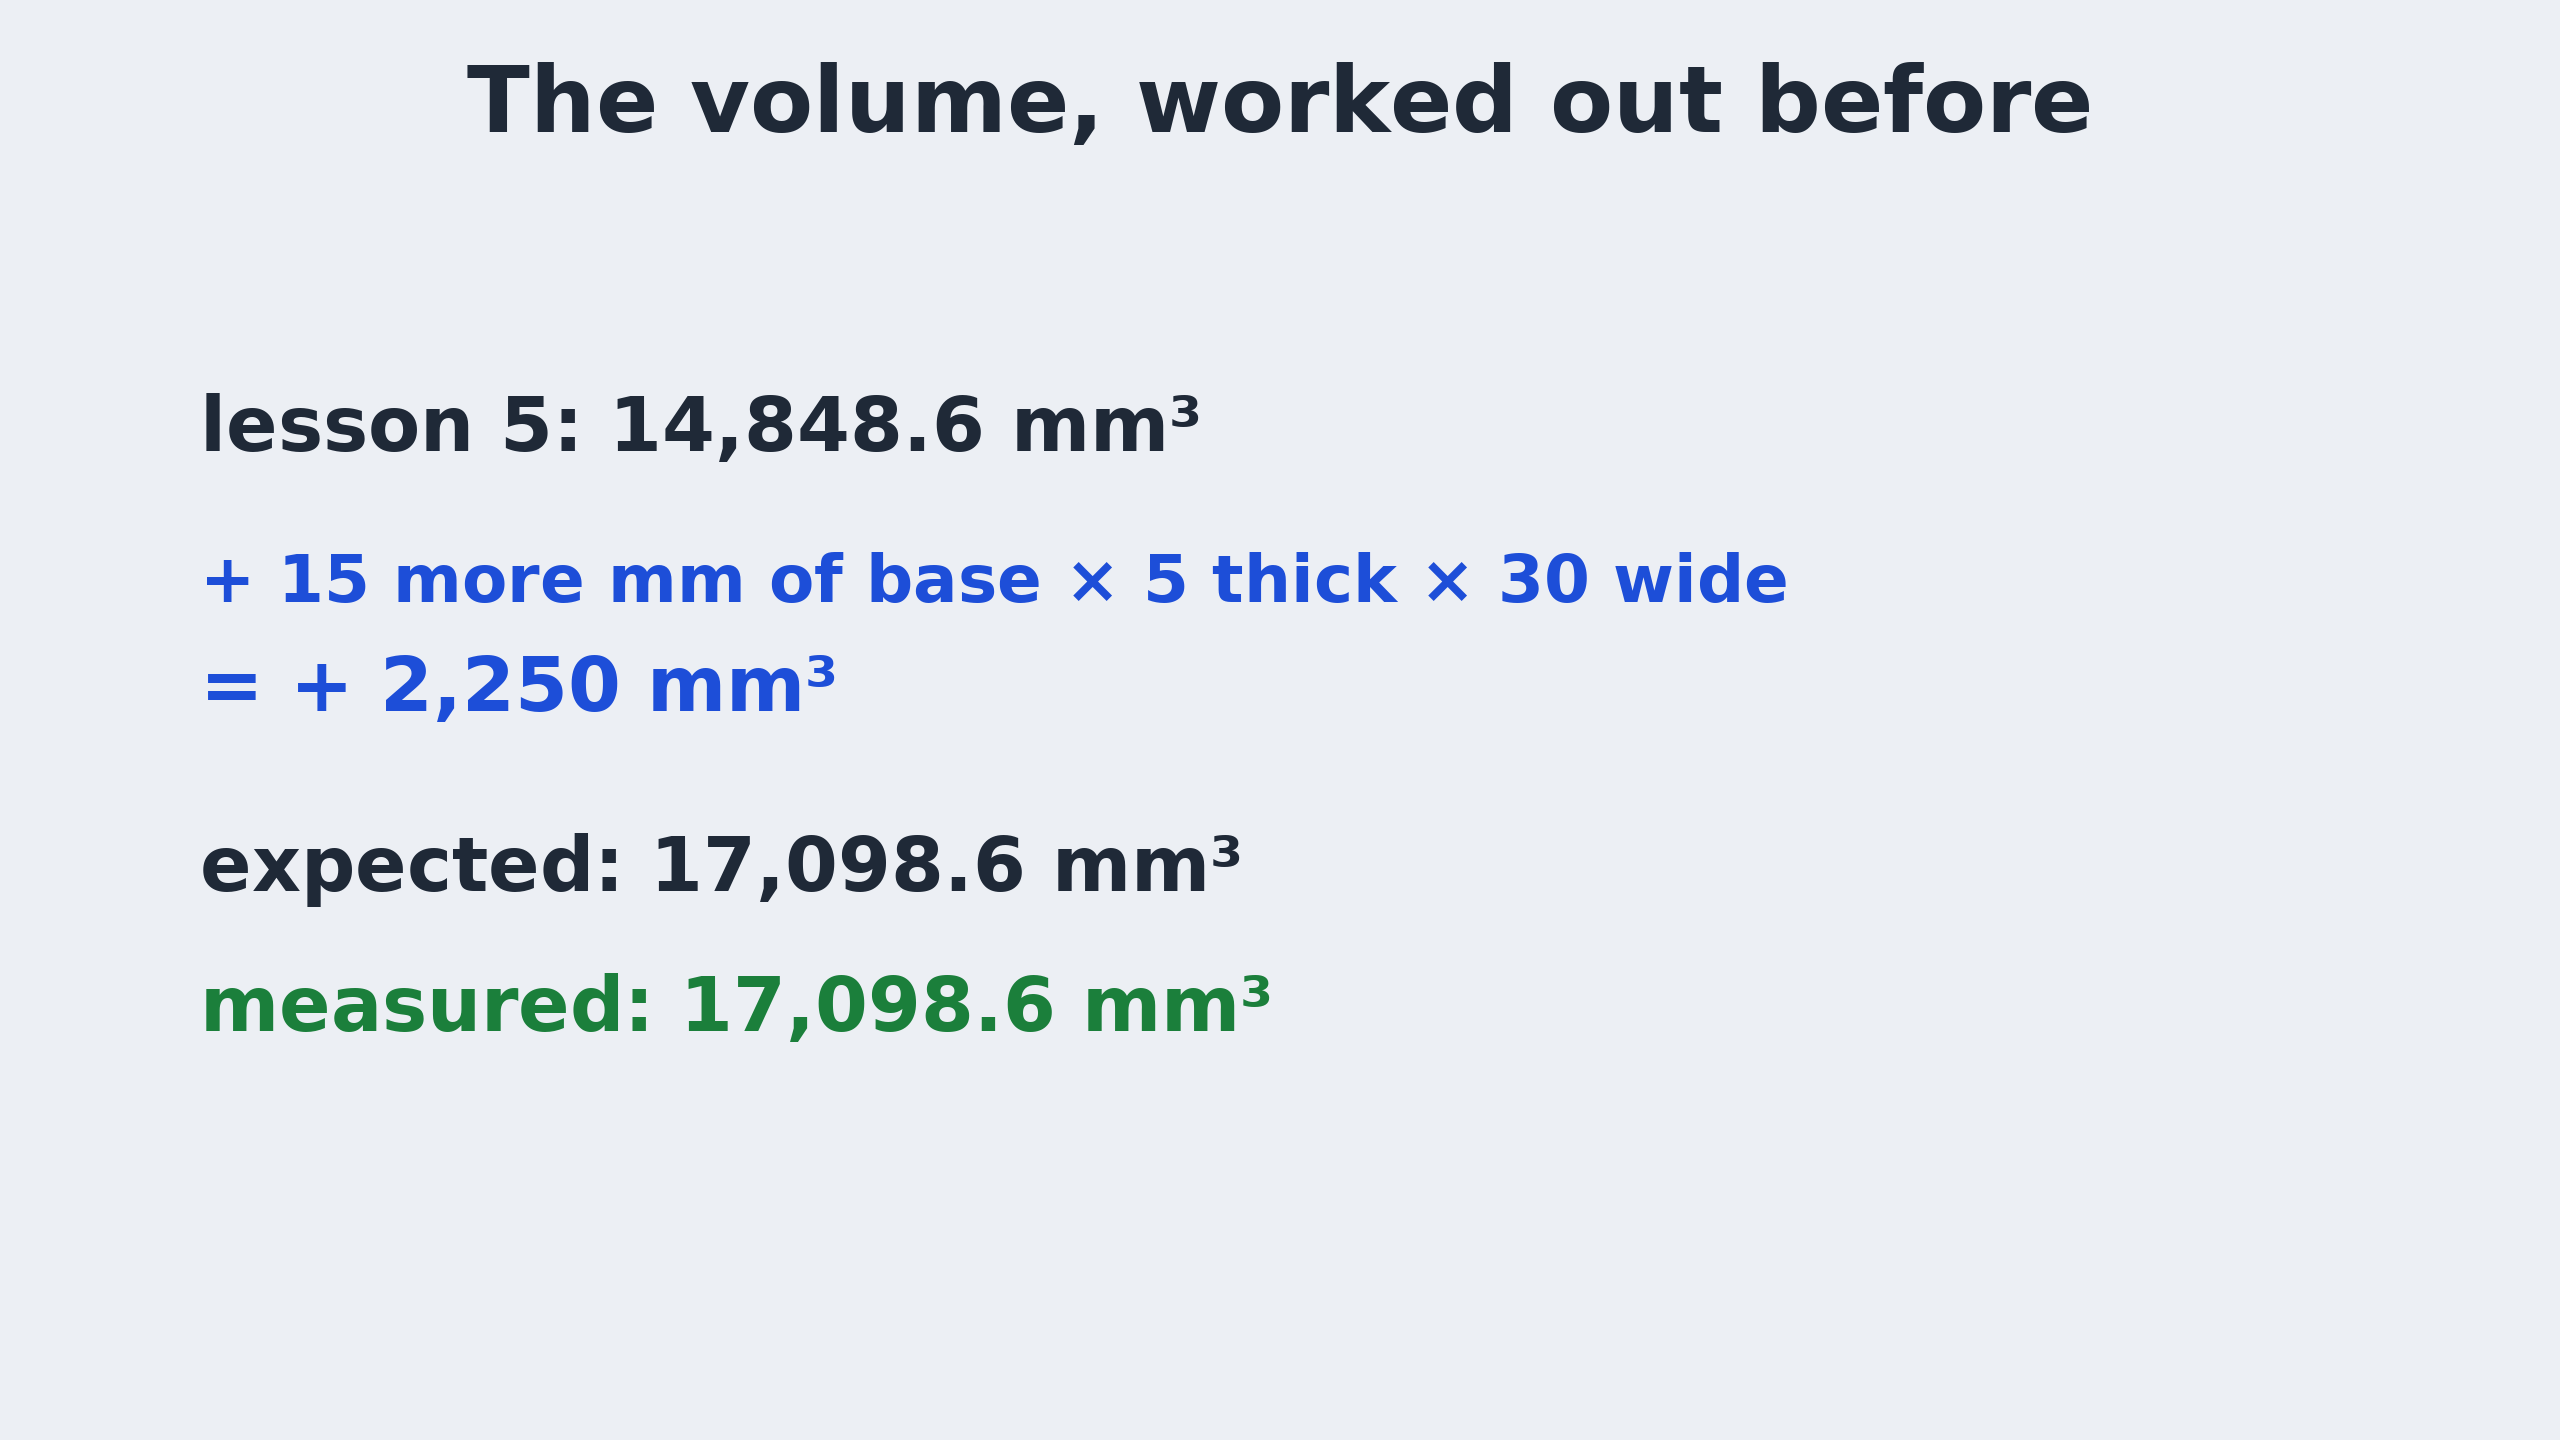
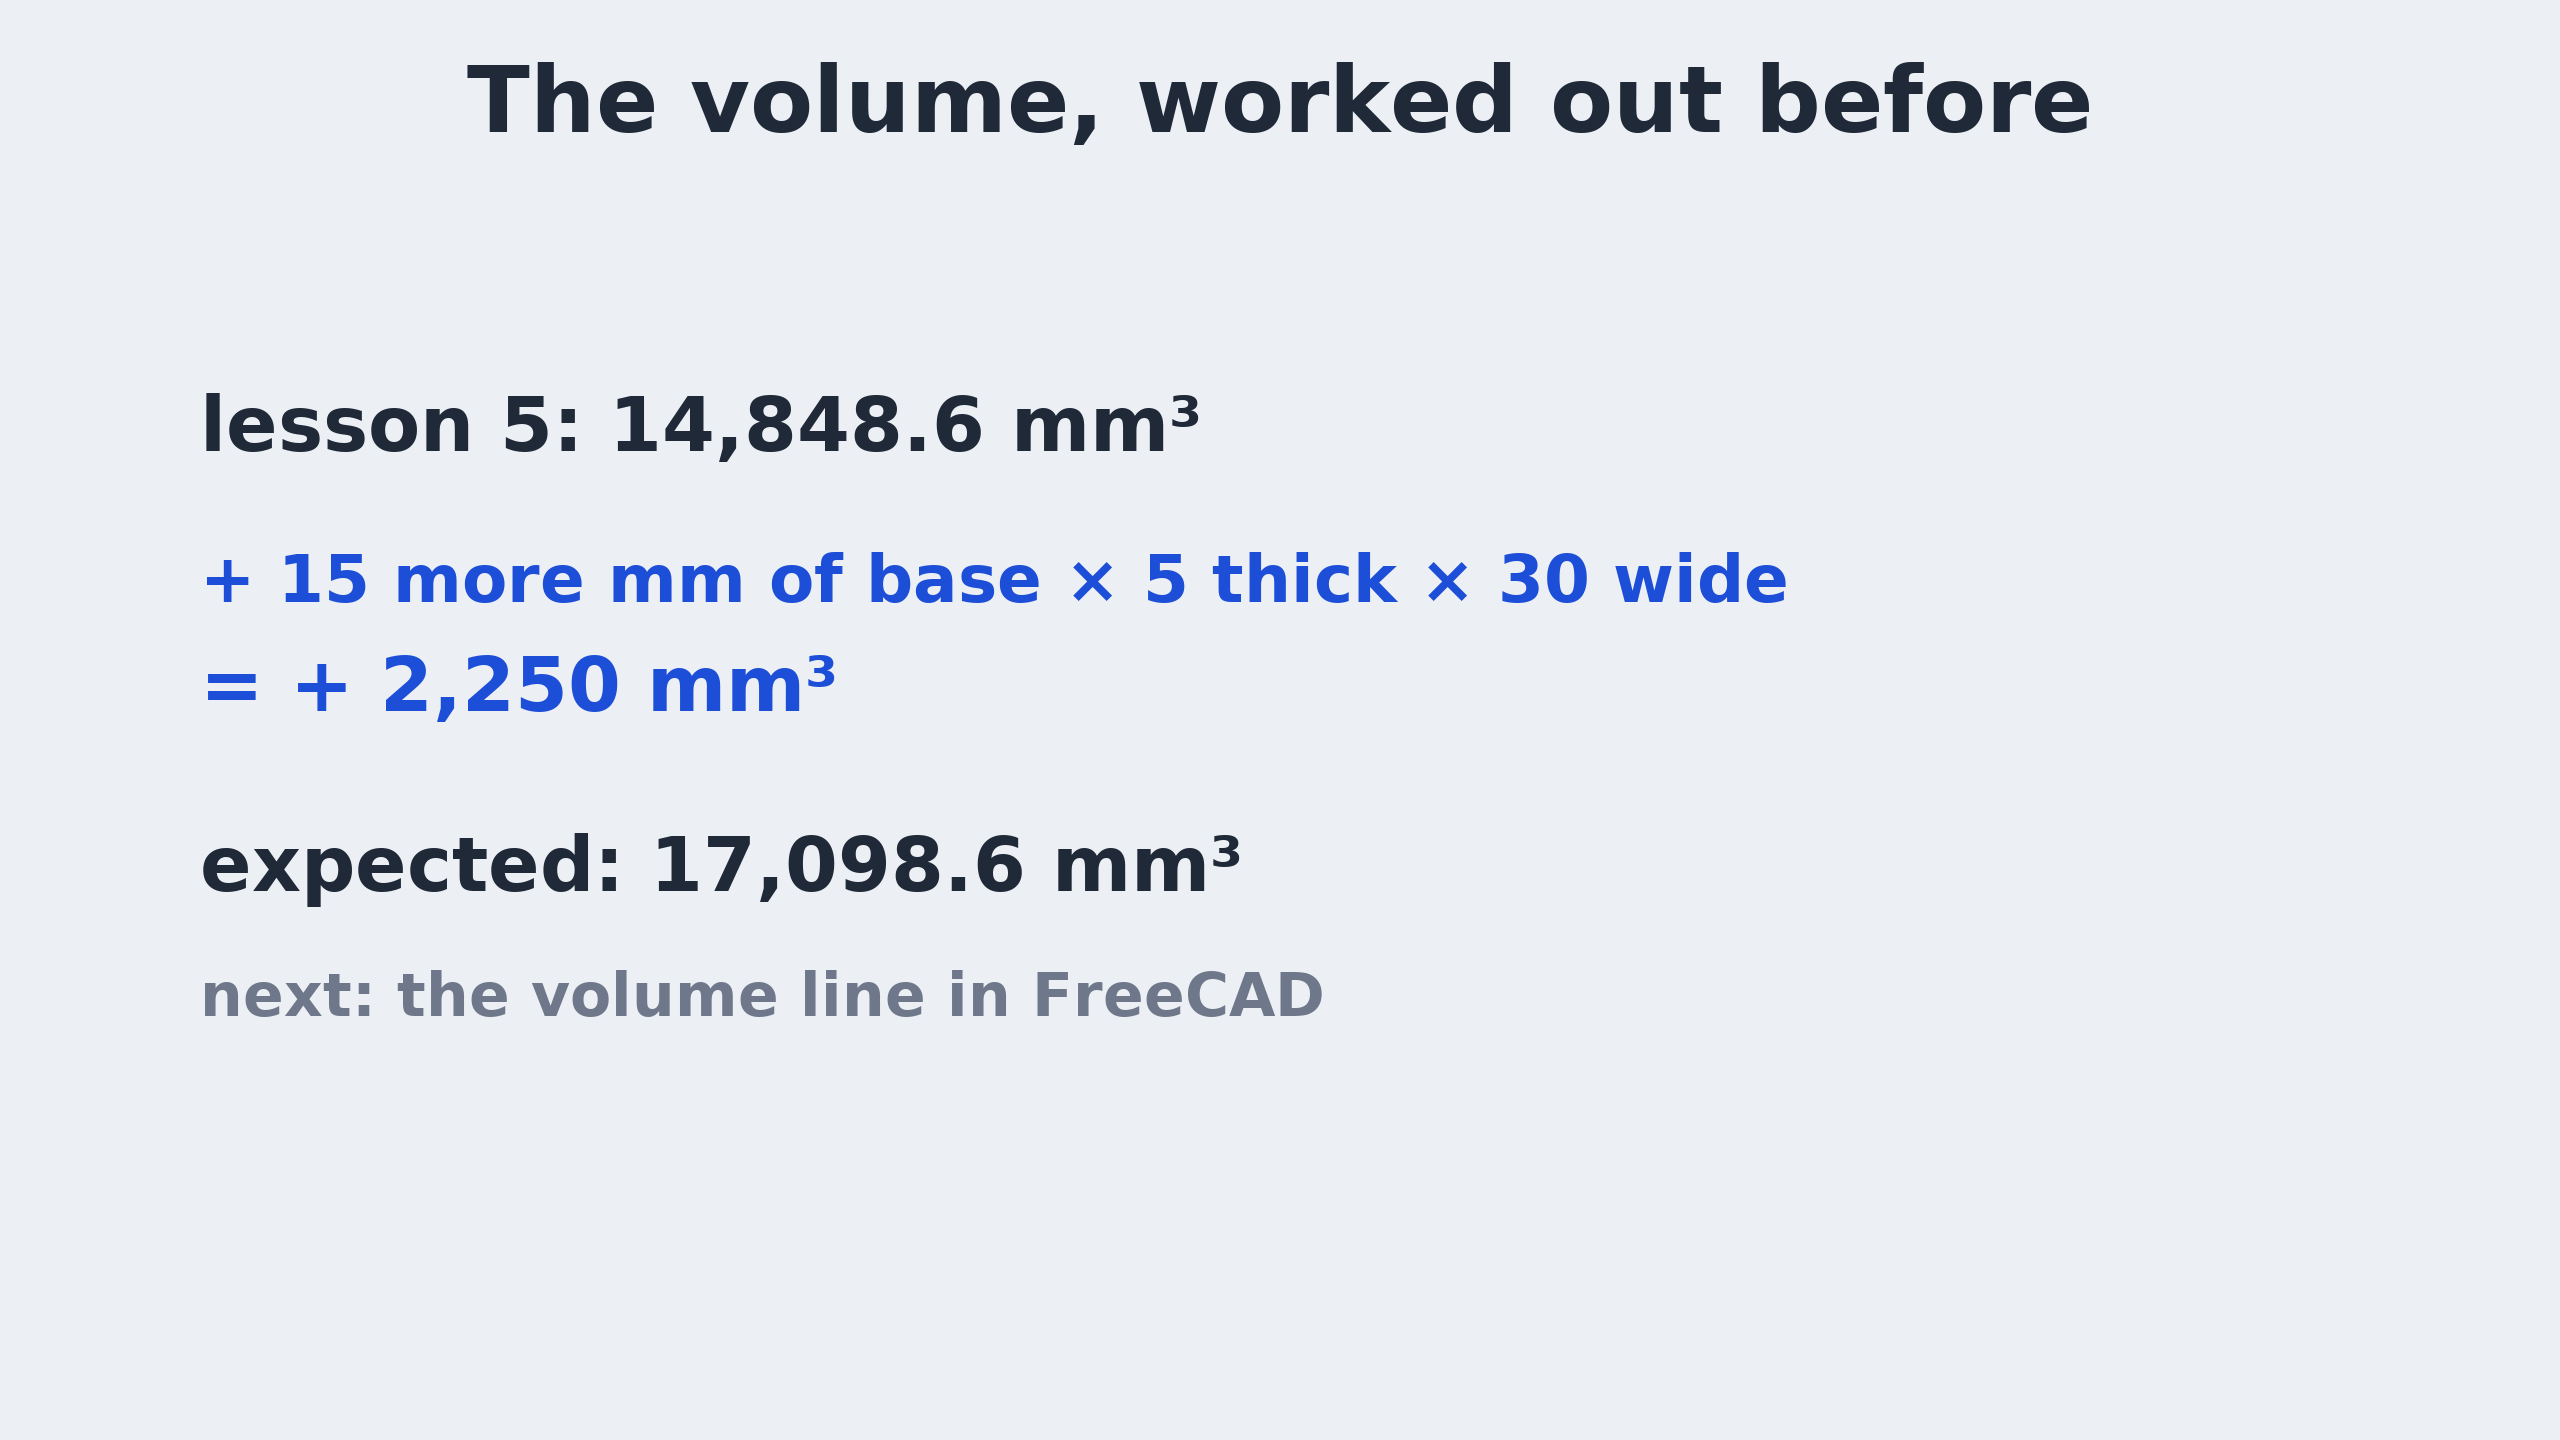
Lesson 6 cards after watch-through cut 2: the comparison card names what each report said (not 6 of 7 / 5 of 7), the volume card shows only the worked-out number before it is measured

Changed region(s): [[0.0625, 0.6562, 0.5312, 0.7188]]

diff --git a/video/draw_l6.py b/video/draw_l6.py
@@ -124,7 +124,7 @@ def card_sum():
     text(d, (200, 540), '+ 15 more mm of base × 5 thick × 30 wide', 66, BLUE)
     text(d, (200, 640), '= + 2,250 mm³', 76, BLUE)
     text(d, (200, 820), 'expected: %s mm³' % f'{a + 2250:,.1f}', 76, INK)
-    text(d, (200, 960), 'measured: %s mm³' % f'{b:,.1f}', 76, GREEN if abs(b - a - 2250) < 0.05 else RED)
+    text(d, (200, 960), 'next: the volume line in FreeCAD', 60, GREY)
     save(im, 'card-sum.png')
 
 
@@ -221,8 +221,8 @@ def card_without(step=2):
     text(d, (x0 + 40, 180), 'with the list', 58, INK)
     text(d, (x0 + 40, 250), '3 runs', 48, GREY)
     text(d, (x0 + 40, 330), '%s passed (our script)' % c['summary']['with_list_passed'].replace(' of ', '/'), 60, GREEN)
-    text(d, (x0 + 40, 420), 'lines it said with a number:', 46, GREY)
-    text(d, (x0 + 40, 480), '%d of 7 each' % s['B1'], 60, INK)
+    text(d, (x0 + 40, 420), 'its report:', 46, GREY)
+    text(d, (x0 + 40, 480), 'every line, sizes as numbers', 54, INK)
     d.line((x0 + 30, 600, 2490, 600), fill=GREY, width=3)
     if step < 2:
         save(im, 'card-without-1.png')
@@ -230,10 +230,11 @@ def card_without(step=2):
     text(d, (x0 + 40, 640), 'without the list', 58, INK)
     text(d, (x0 + 40, 710), '1 run', 48, GREY)
     text(d, (x0 + 40, 790), 'passed (our script)' if c['runs']['A1']['pass'] else 'broke a line', 60, GREEN if c['runs']['A1']['pass'] else RED)
-    text(d, (x0 + 40, 880), 'lines it said with a number:', 46, GREY)
-    text(d, (x0 + 40, 940), '%d of 7' % s['A1'], 60, INK)
-    text(d, (x0 + 40, 1030), 'nothing on the names', 52, RED)
-    chip(d, (x0 + 40, 1200), 'one run: a story, not a rate', 46, PAPER, INK)
+    text(d, (x0 + 40, 880), 'its report:', 46, GREY)
+    text(d, (x0 + 40, 940), 'opening, size, volume;', 54, INK)
+    text(d, (x0 + 40, 1010), "the rest 'unchanged'", 54, INK)
+    text(d, (x0 + 40, 1080), 'nothing on the names', 54, RED)
+    chip(d, (x0 + 40, 1190), 'one run: a story, not a rate', 46, PAPER, INK)
     save(im, 'card-without.png')
 
 
